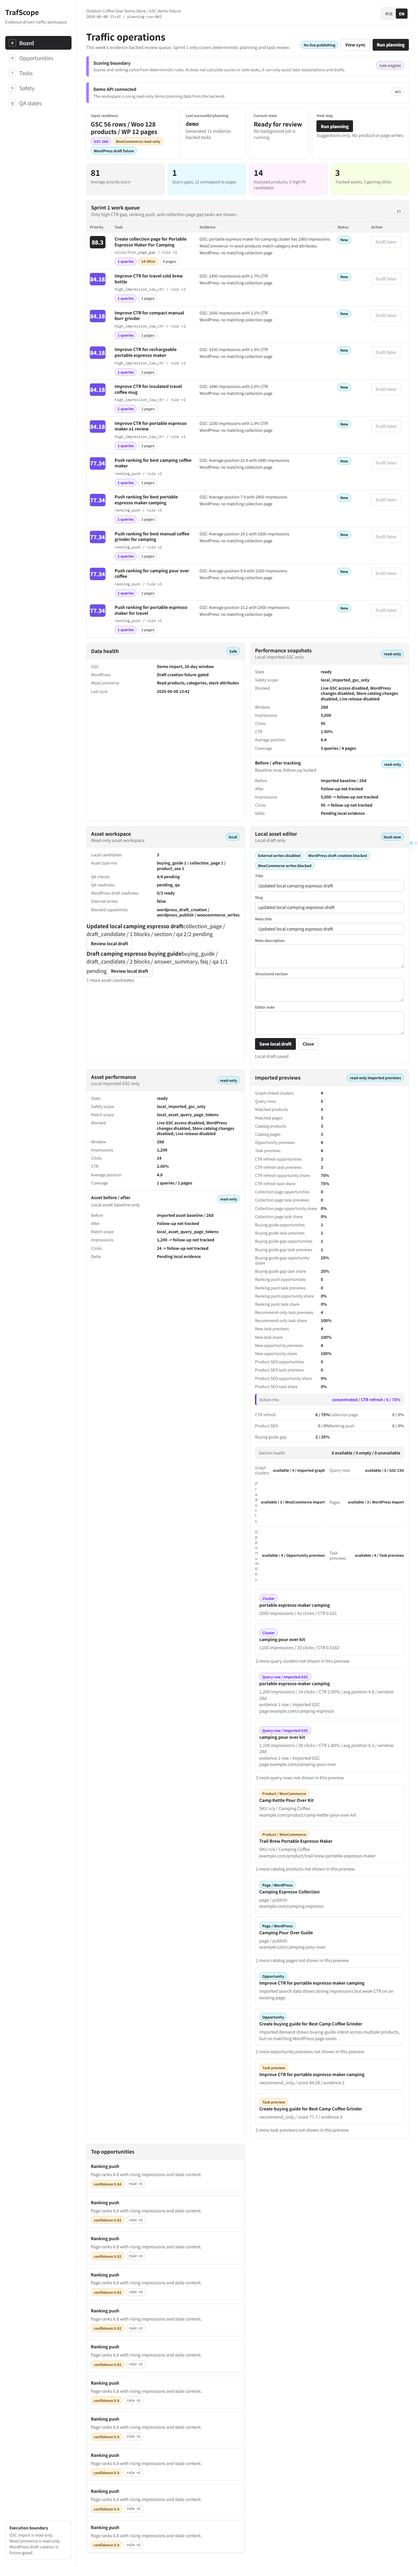
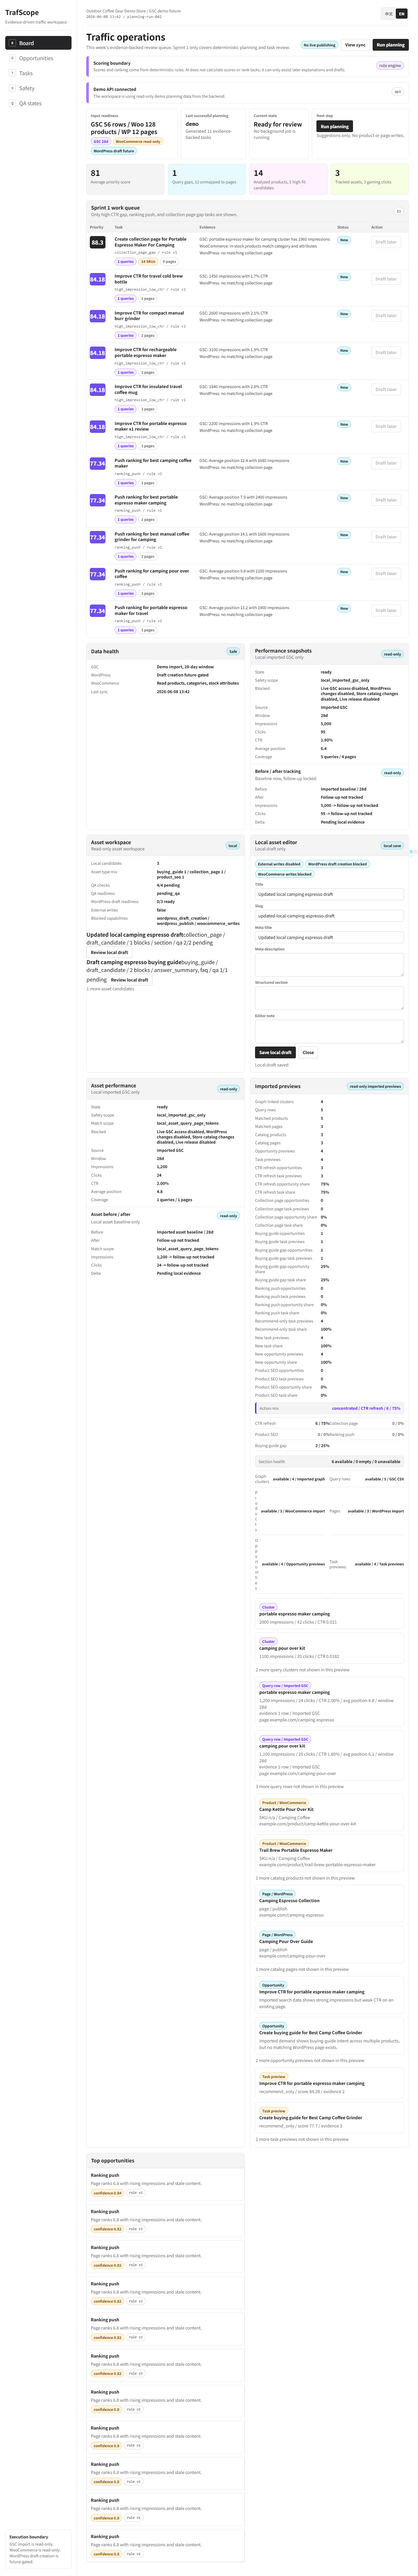
Add performance source diagnostics

diff --git a/apps/web/app/App.tsx b/apps/web/app/App.tsx
@@ -1306,6 +1306,10 @@ function PerformanceSnapshotPanel({
         </div>
         {primarySnapshot ? (
           <>
+            <div className="kv-row" data-performance-metric="source">
+              <span>Source</span>
+              <strong>{primarySnapshot.source}</strong>
+            </div>
             <div className="kv-row" data-performance-metric="window">
               <span>{copy.window}</span>
               <strong>{primarySnapshot.window}</strong>
@@ -1693,6 +1697,10 @@ function AssetPerformancePanel({
         </div>
         {primarySnapshot ? (
           <>
+            <div className="kv-row" data-asset-performance-metric="source">
+              <span>Source</span>
+              <strong>{primarySnapshot.source}</strong>
+            </div>
             <div className="kv-row" data-asset-performance-metric="window">
               <span>{copy.window}</span>
               <strong>{primarySnapshot.window}</strong>

diff --git a/docs/automation-task-board.md b/docs/automation-task-board.md
@@ -4,7 +4,7 @@ Date: 2026-06-08
 
 This board is the execution source of truth for the current sprint builder loop. Work proceeds from the highest-priority incomplete item that is not blocked.
 
-Current loop: Sprint 3 asset performance comparison empty/unavailable diagnostics are verified. Live integration work remains blocked on credentials and boundary approval. Scope stays safe: local/demo/imported data only, no real GSC OAuth, no WooCommerce writes, and no WordPress publishing.
+Current loop: Sprint 3 performance source diagnostics are verified. Live integration work remains blocked on credentials and boundary approval. Scope stays safe: local/demo/imported data only, no real GSC OAuth, no WooCommerce writes, and no WordPress publishing.
 
 ## Status Legend
 
@@ -226,6 +226,7 @@ These are internal execution-board statuses, not TrafScope product task review s
 | TASK-S3-QA-058 | 192 | done | Frontend Product Engineer / QA Lead | Add performance comparison empty/unavailable diagnostics. | Browser smoke verifies the before/after comparison section remains visible with stable empty and unavailable DOM diagnostics when local imported GSC snapshots are missing or unavailable, and still exposes no refresh, sync, credential, WordPress draft/page update, publish, navigation, or commerce-write controls. |
 | TASK-S3-FE-059 | 193 | done | Frontend Product Engineer / UI Systems Engineer / QA Lead | Add asset-specific before/after performance comparison UI. | Asset performance panels render a local-only before/after comparison section for the selected local asset baseline, clearly mark follow-up metrics as not yet tracked, preserve `local_asset_query_page_tokens` diagnostics, and expose no refresh, sync, credential, WordPress draft/page update, publish, navigation, or commerce-write controls. |
 | TASK-S3-QA-060 | 194 | done | Frontend Product Engineer / QA Lead | Add asset performance comparison empty/unavailable diagnostics. | Browser smoke verifies the asset before/after comparison section remains visible with stable empty and unavailable DOM diagnostics when a selected local asset has no matching imported GSC snapshot or the read fails, while preserving `local_asset_query_page_tokens` and exposing no refresh, sync, credential, WordPress draft/page update, publish, navigation, or commerce-write controls. |
+| TASK-S3-QA-061 | 195 | done | Frontend Product Engineer / QA Lead | Add performance source diagnostics. | Store and asset performance panels expose stable read-only `Imported GSC` source diagnostics for local snapshots and still expose no refresh, sync, credential, WordPress draft/page update, publish, navigation, or commerce-write controls. |
 
 ## Blockers
 
@@ -598,6 +599,7 @@ These are internal execution-board statuses, not TrafScope product task review s
 - Performance comparison empty/unavailable diagnostics are verified by red-green browser smoke coverage that first failed when the comparison section disappeared in empty performance states, then passed with stable empty/unavailable keys, zero comparison metric rows, GET-only reads, and no refresh, sync, credential, draft, publish, navigation, or commerce-write controls.
 - Asset-specific before/after performance comparison UI is verified by red-green static and browser coverage that first failed on the missing `.asset-performance-comparison-panel`, then passed with selected-asset imported baseline metrics, after metrics marked as not tracked, `local_asset_query_page_tokens` diagnostics, GET-only asset performance reads, and no refresh, sync, credential, draft, publish, navigation, or commerce-write controls.
 - Asset performance comparison empty/unavailable diagnostics are verified by red-green browser smoke coverage that first failed when `.asset-performance-comparison-panel` disappeared for an asset with no local imported GSC match, then passed with stable empty/unavailable keys, `local_asset_query_page_tokens`, zero comparison metric rows, GET-only asset performance reads, and no refresh, sync, credential, draft, publish, navigation, or commerce-write controls.
+- Performance source diagnostics are verified by red-green static and browser coverage that first failed on the missing source metric rows, then passed with stable `Imported GSC` source rows in store and asset performance panels while preserving GET-only reads and no refresh, sync, credential, draft, publish, navigation, or commerce-write controls.
 
 ## Completion Rule
 

diff --git a/docs/sprint-3-performance-snapshot-ui-contract.md b/docs/sprint-3-performance-snapshot-ui-contract.md
@@ -93,6 +93,7 @@ Implemented foundation:
 - Browser smoke verifies the before/after comparison section remains visible in empty and unavailable performance states with stable empty-state keys and without rendering comparison metric rows, controls, links, credentials, refresh, sync, publish, draft, navigation, or commerce-write behavior.
 - Visible local asset performance UI renders a read-only asset before/after comparison section for the selected local asset baseline, marks follow-up metrics as not yet tracked, preserves `local_asset_query_page_tokens` diagnostics, and exposes no refresh, sync, credential, WordPress, publish, navigation, or commerce-write controls.
 - Browser smoke verifies asset before/after comparison empty and unavailable states stay visible with stable local-only keys, preserve `local_asset_query_page_tokens`, render zero populated comparison metric rows, and expose no refresh, sync, credential, WordPress, publish, navigation, or commerce-write controls.
+- Store and asset performance panels expose a stable read-only `Imported GSC` source diagnostic from the safe frontend adapter without exposing raw live source labels or adding refresh, sync, credential, WordPress, publish, navigation, or commerce-write controls.
 
 Still gated:
 
